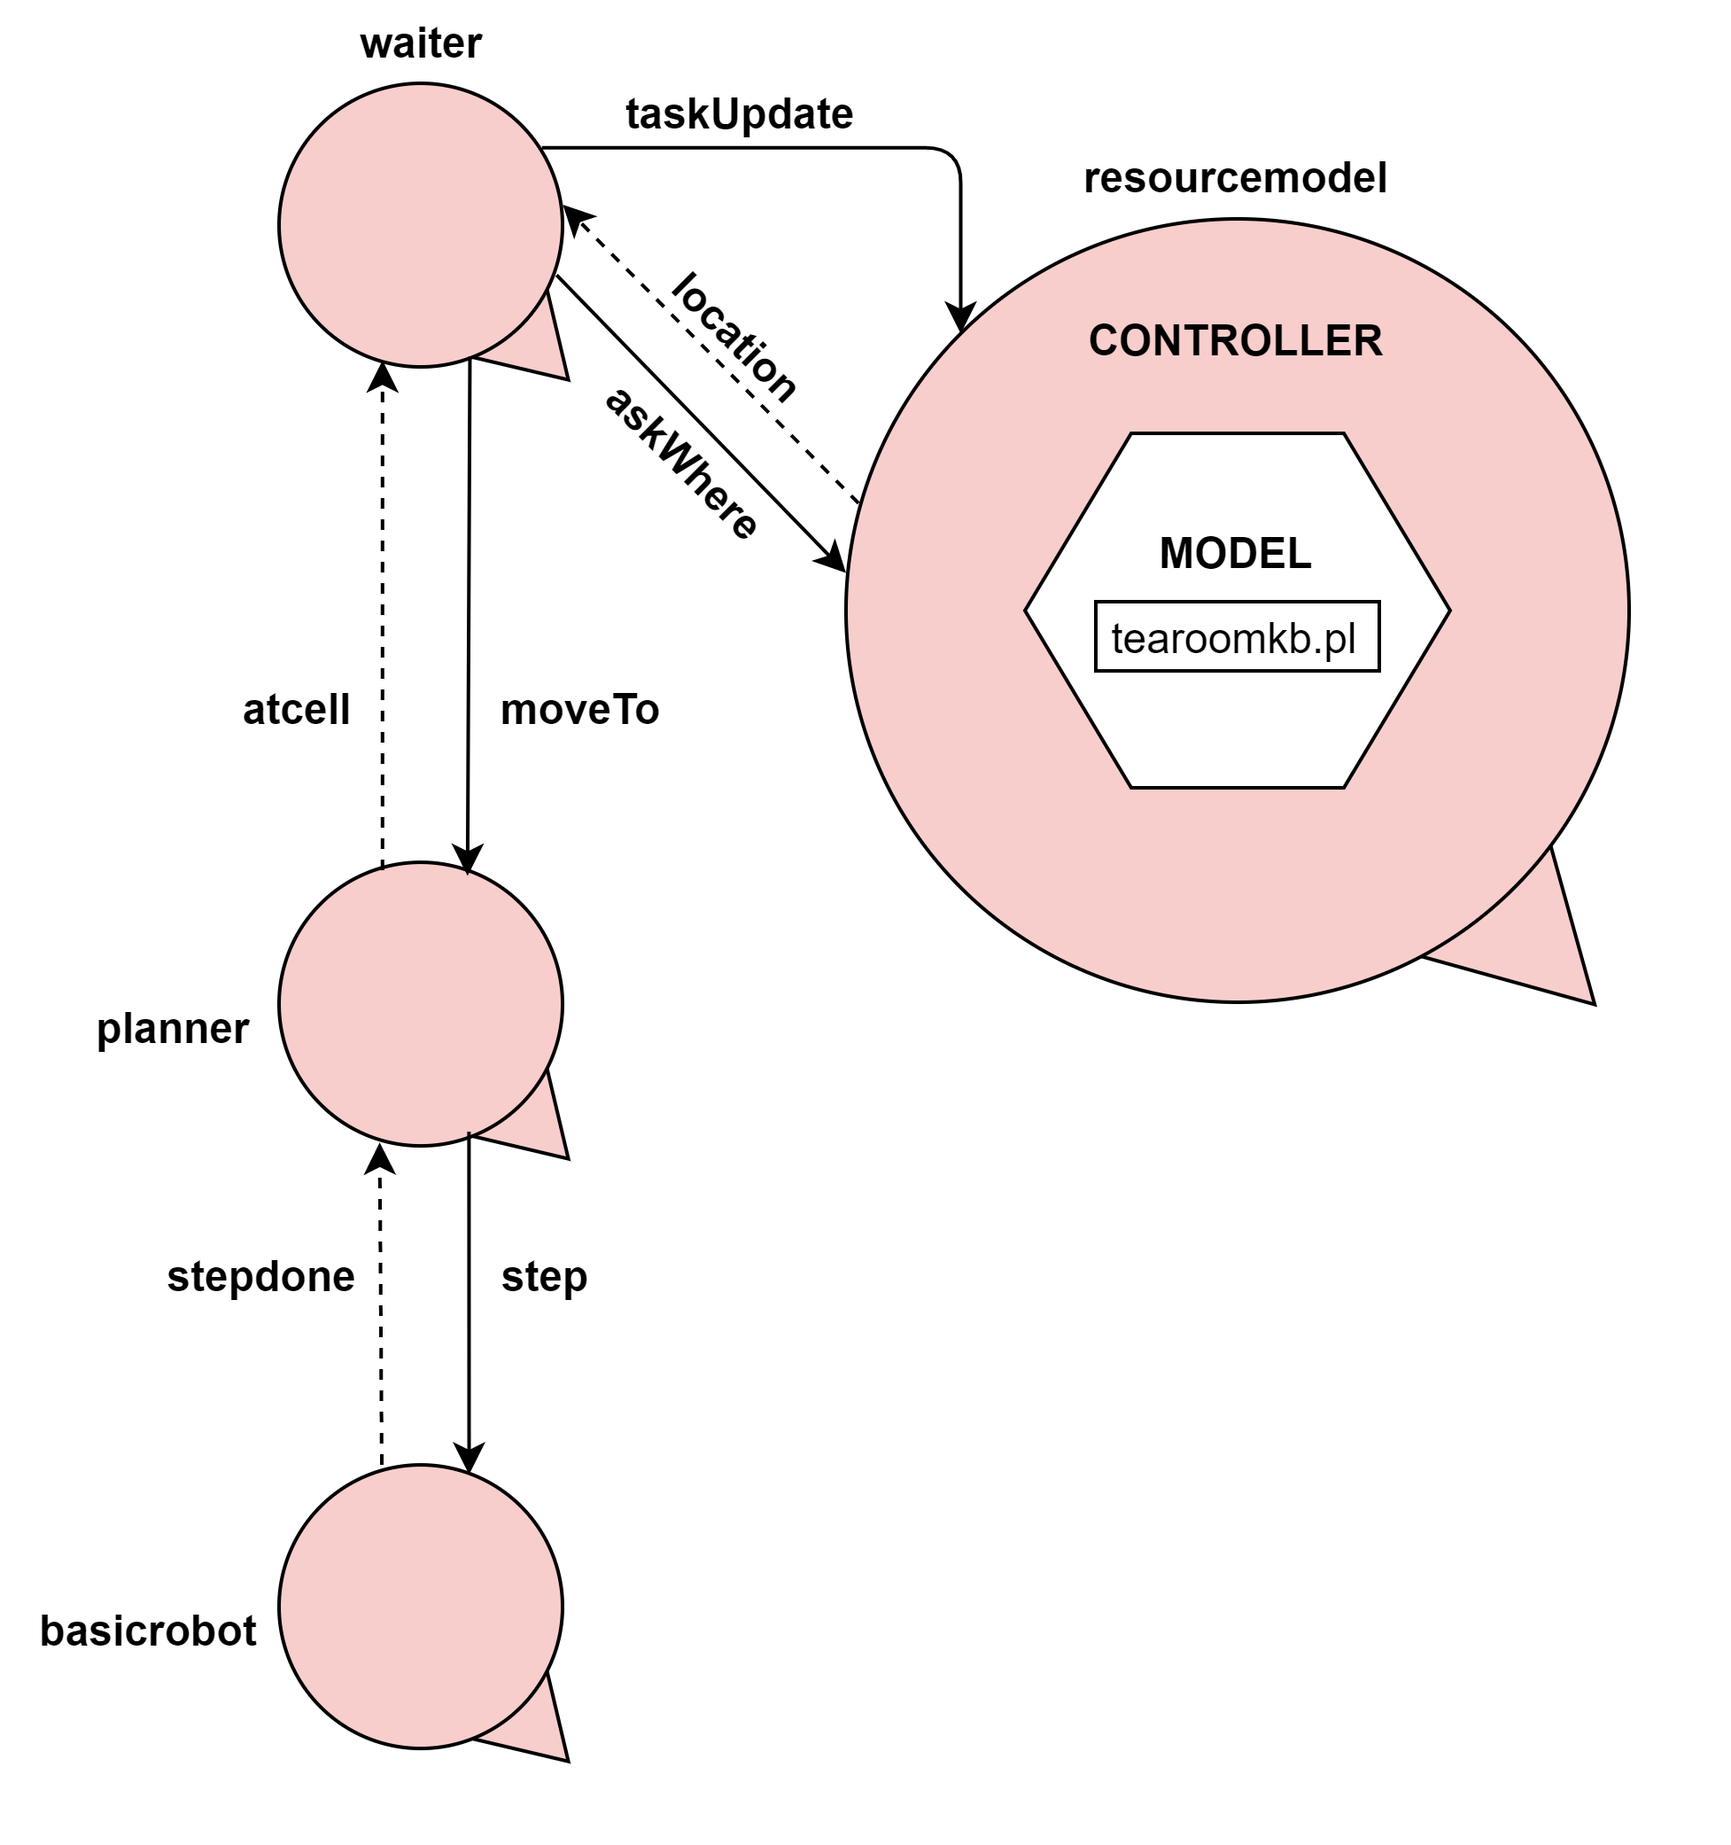
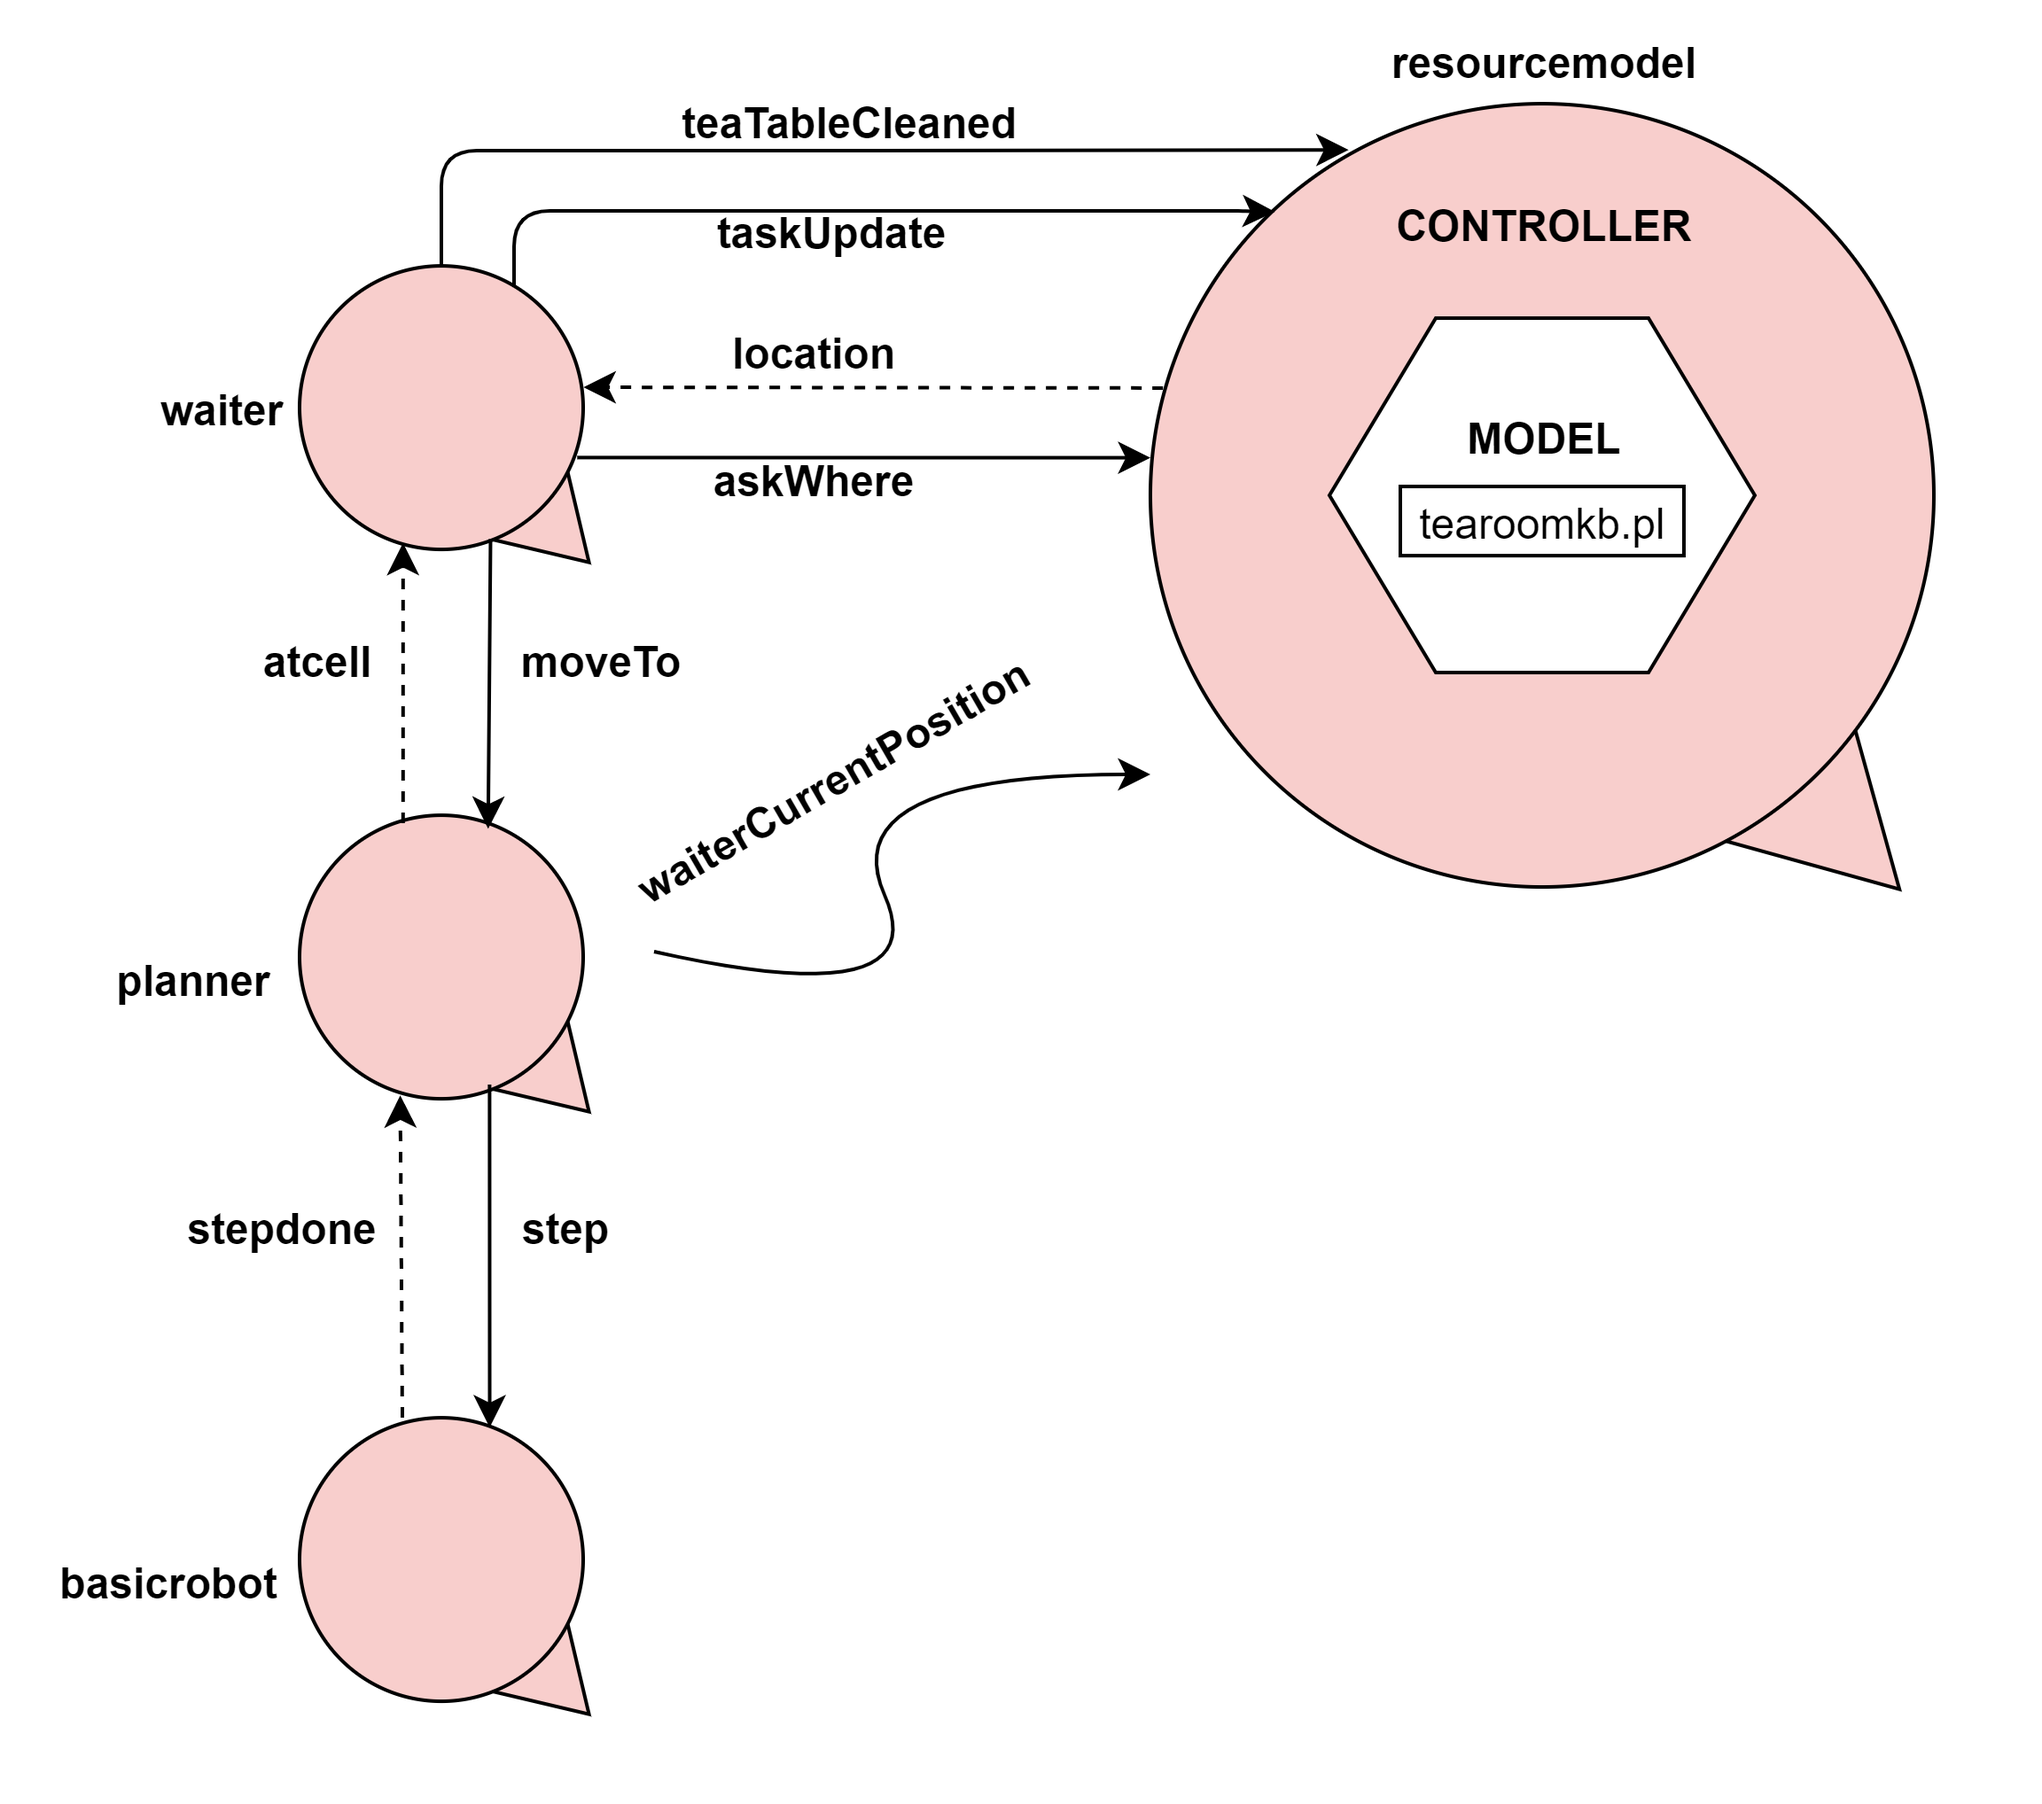
versione aggiornata pre-sprint2 del documento dello sprint2

Changed region(s): [[0.0, 0.0, 0.9678, 0.9592], [0.4058, 0.4023, 0.4683, 0.4332]]

diff --git a/Relazioni/Sprint2/sprint2.html b/Relazioni/Sprint2/sprint2.html
@@ -20,8 +20,8 @@
         <div class="body">
             <h2>Requirements</h2>
             <div>
-                Questo sprint si occupa di definire lo stato della stanza, introducendo un'architettura esagonale.</br></br>
-                Inoltre si inizierà a costruire il pannello di controllo da fornire al manager, tramite il quale si potrà visualizzare lo stato.
+                Questo sprint si occupa di definire lo stato della stanza, introducendo un'architettura esagonale.</br>
+                Inoltre si inizierà a costruire il pannello di controllo da fornire al manager, tramite il quale si potrà visualizzare lo stato della stanza.
             </div>
 
 
@@ -42,7 +42,7 @@
                     </li>
                 </ul> 
                 </br>
-                L'architettura esagonale, o architettura a porte e adattatori, è un pattern architetturale usato in
+                L'<a href ="https://jmgarridopaz.github.io/content/hexagonalarchitecture.html">architettura esagonale</a>, o architettura a porte e adattatori, è un pattern architetturale usato in
                 software design.</br>
                 <center><img src="img/portAdapter.png" alt="tearoom20.png" width="15%" height="32%" /></center></br>
                 Il principale obiettivo di questa architettura è quello di disaccoppiare la logica core
@@ -122,58 +122,42 @@ QActor <k>resourcemodel</k> context ctxresourcemodel{
 
             <h2>Test plans</h2>
             <div>
-                <ks>GOAL</ks>: give a formal description (for example, by using <ks>JUnit</ks>) of the <k>functional
-                    TestPlans</k>, with reference to the <k>logical architecture</k> of the system .
+                Non sono sorte in fase di analisi funzionalità da testare, in quanto questo sprint si occupa unicamente di modificare il precedente
+                modello introducendo il modello esagonale (completamente espresso con la tecnologia QAK, framework presente nella nostra software house).
             </div>
 
             <h2>Project</h2>
             <div>
-                Il <bc>waiter</bc> interagisce ora con il <bc>resourcemodel</bc> in due occasioni:
+                Il <bc>waiter</bc> interagisce ora con il <bc>resourcemodel</bc> in tre occasioni:
                 <ol>
+                    <li>Tramite <b>teaTableCleaned</b>, per notificare il cambiamento di stato del tavolo, dopo averlo pulito.</li>
                     <li>Tramite <b>taskUpdate</b>, per notificare il completamento di un task.</li>
                     <li>Tramite <b>askWhere</b>, per richiedere la posizione (ottenuta tramite <b>location</b>) di un oggetto nella stanza
                     verso cui si deve spostare il robot.</li>
                 </ol> 
+                Il <bc>planner</bc> interagisce ora con il <bc>resourcemodel</bc> tramite l'evento <b>waiterCurrentPosition</b>, per aggiornare 
+                la posizione corrente del waiter nella stanza.</br>
+                La scelta di una interazione ad evento è basata su due considerazioni:
+                <ul>
+                    <li>Essendo il planner un attore di "supporto" al sistema, è stato preferito non dargli la responsabilità di <b>interagire direttamente</b> con il modello.</li>
+                    <li>La possibilità di aggiornare la posizione corrente del waiter tramite un evento può risultare utile nel momento in cui l'attore venga spostato
+                        in una <b>posizione esterna</b> al sistema.</li>
+                </ul>
                 <center><img src="img/nuova_struttura_waiter.png" alt="struttura_waiter.png" width="55%" height="32%" /></center></br>
+                Una descrizione formale di questo modello si può trovare in <a href="../../Workspace/Sprint2/Project/it.unibo.trc19.sprint2.tearoom/src/tearoom.qak">tearoom.qak</a></br>
                 Inoltre, viene introdotta la parte frontend di interazione con il manager, che rappresenta le informazioni elencate nei requisiti.</br>
                 Questa, implementata tramite il framework <a href="https://spring.io/">Spring</a>, si relazione con il resource model tramite un canale <a href="https://en.wikipedia.org/wiki/Constrained_Application_Protocol">CoAP</a>,
                 che viene aggiornato ogniqualvolta avviene un cambio di modello, utilizzando la feature QAK <b>updateResource</b>.</br></br>
                 <center><img src="img/iss2020Sprint2-HTML_manager_esagonale.png" alt="HTML_esagonale.png" width="65%" height="32%" /></center></br>
+                Il main della interfaccia web si può trovare in <a href="../../Workspace/Sprint2/Project/robotWeb2020/src/main/java/it/unibo/robotWeb2020/RobotWeb2020Application.java">RobotWeb2020Application</a> (collocata in <b>localhost:7001</b>).
             </div>
 
             <h2>Testing</h2>
             <div>
-                <ks>GOAL</ks>: complete the <k>functional TestPlans</k> according to the project code and execute them.
+                Il testing viene svolto tramite il confronto fra il comportamento atteso (descritto nei requisiti) e quello reale della
+                interfaccia web realizzata per il manager (<a href="../../Workspace/Sprint2/Project/robotWeb2020/src/main/java/it/unibo/robotWeb2020/RobotWeb2020Application.java">RobotWeb2020Application</a>),
+                supportato dall' infrastruttura software modellata in <a href="../../Workspace/Sprint2/Project/it.unibo.trc19.sprint2.tearoom/src/tearoom.qak">tearoom.qak</a>.
             </div>
-
-            <h2>Deployment</h2>
-
-            <div>
-                <ks>GOAL</ks>: prepare a software application to run and operate in a specific environment.
-                It involves installation, configuration, testing and making changes to optimize the performance of the
-                software.
-                It can either be carried out manually or (hopefully) through automated systems.
-            </div>
-
-
-
-            <h2>Maintenance</h2>
-            <div>
-                <ks>GOAL</ks>: modify the software product after delivery to correct faults,
-                to improve performance or other attributes.
-                A common perception of maintenance is that it merely involves fixing defects.
-                However, one study indicated that over 80% of maintenance effort is used for non-corrective actions.
-            </div>
-
-
-            <table style="width:100%" border="1">
-                <tr>
-                    <td style="width:50%">
-                    </td>
-                    <td></td>
-                </tr>
-            </table>
-
             <br /><br />
 
         </div>
@@ -186,24 +170,27 @@ QActor <k>resourcemodel</k> context ctxresourcemodel{
 
                 <div class="w3-third">
                     <img src="../HTMLResources/img/ugo3.jpg" style="width:45%" class="w3-circle">
-                    <h3>Ugo Leone Cavalcanti</h3>
-                    <p style="font-size: 70%;"><a
-                            href="MAILTO:ugoleone.cavalcanti@studio.unibo.it">ugoleone.cavalcanti@studio.unibo.it</a>
+                    <h3>Ugo Leone Cavalcanti</br>
+                        <i>Analista</i>
+                    </h3>
+                    <p style="font-size: 70%;"><a href="MAILTO:ugoleone.cavalcanti@studio.unibo.it">ugoleone.cavalcanti@studio.unibo.it</a>
                     </p>
                 </div>
 
                 <div class="w3-third">
                     <img src="../HTMLResources/img/amir.jpg" style="width:45%" class="w3-circle">
-                    <h3>Amir Al Sadi</h3>
-                    <p style="font-size: 70%;"><a
-                            href="MAILTO:amir.alsadi@studio.unibo.it">amir.alsadi@studio.unibo.it</a></p>
+                    <h3>Amir Al Sadi</br>
+                        <i>Tester</i>
+                    </h3>
+                    <p style="font-size: 70%;"><a href="MAILTO:amir.alsadi@studio.unibo.it">amir.alsadi@studio.unibo.it</a></p>
                 </div>
 
                 <div class="w3-third">
                     <img src="../HTMLResources/img/nik2.jpeg" style="width:45%" class="w3-circle">
-                    <h3>Nicolò Romandini</h3>
-                    <p style="font-size: 70%;"><a
-                            href="MAILTO:nicolo.romandini@studio.unibo.it">nicolo.romandini@studio.unibo.it</a></p>
+                    <h3>Nicolò Romandini</br>
+                        <i>Progettista</i>
+                    </h3>
+                    <p style="font-size: 70%;"><a href="MAILTO:nicolo.romandini@studio.unibo.it">nicolo.romandini@studio.unibo.it</a></p>
                 </div>
 
 
